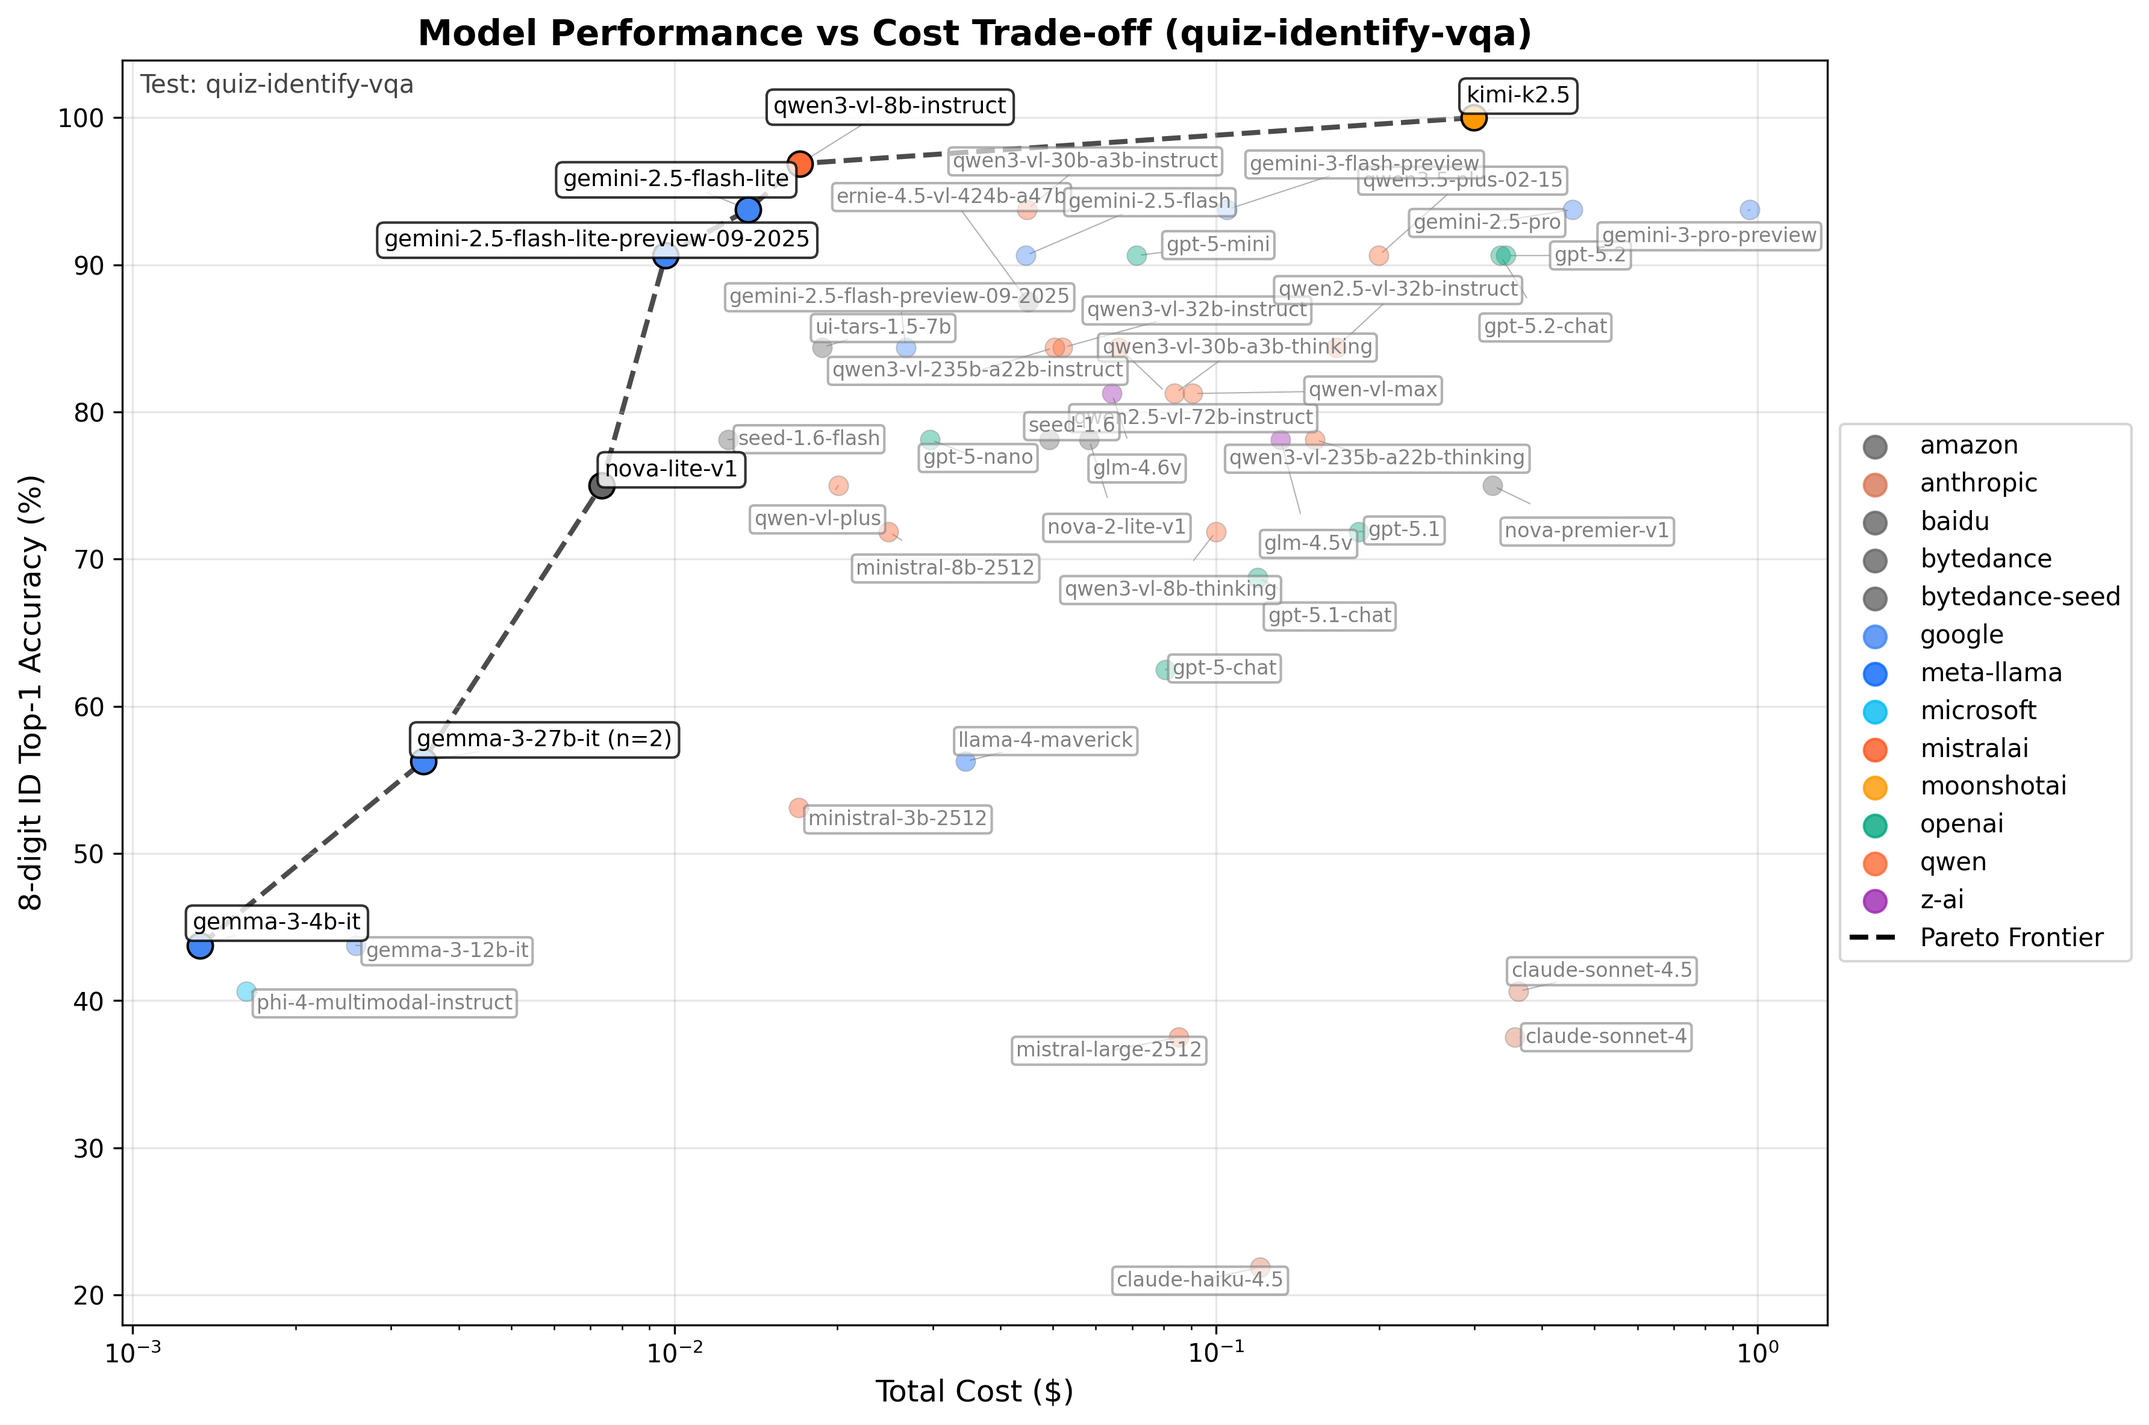
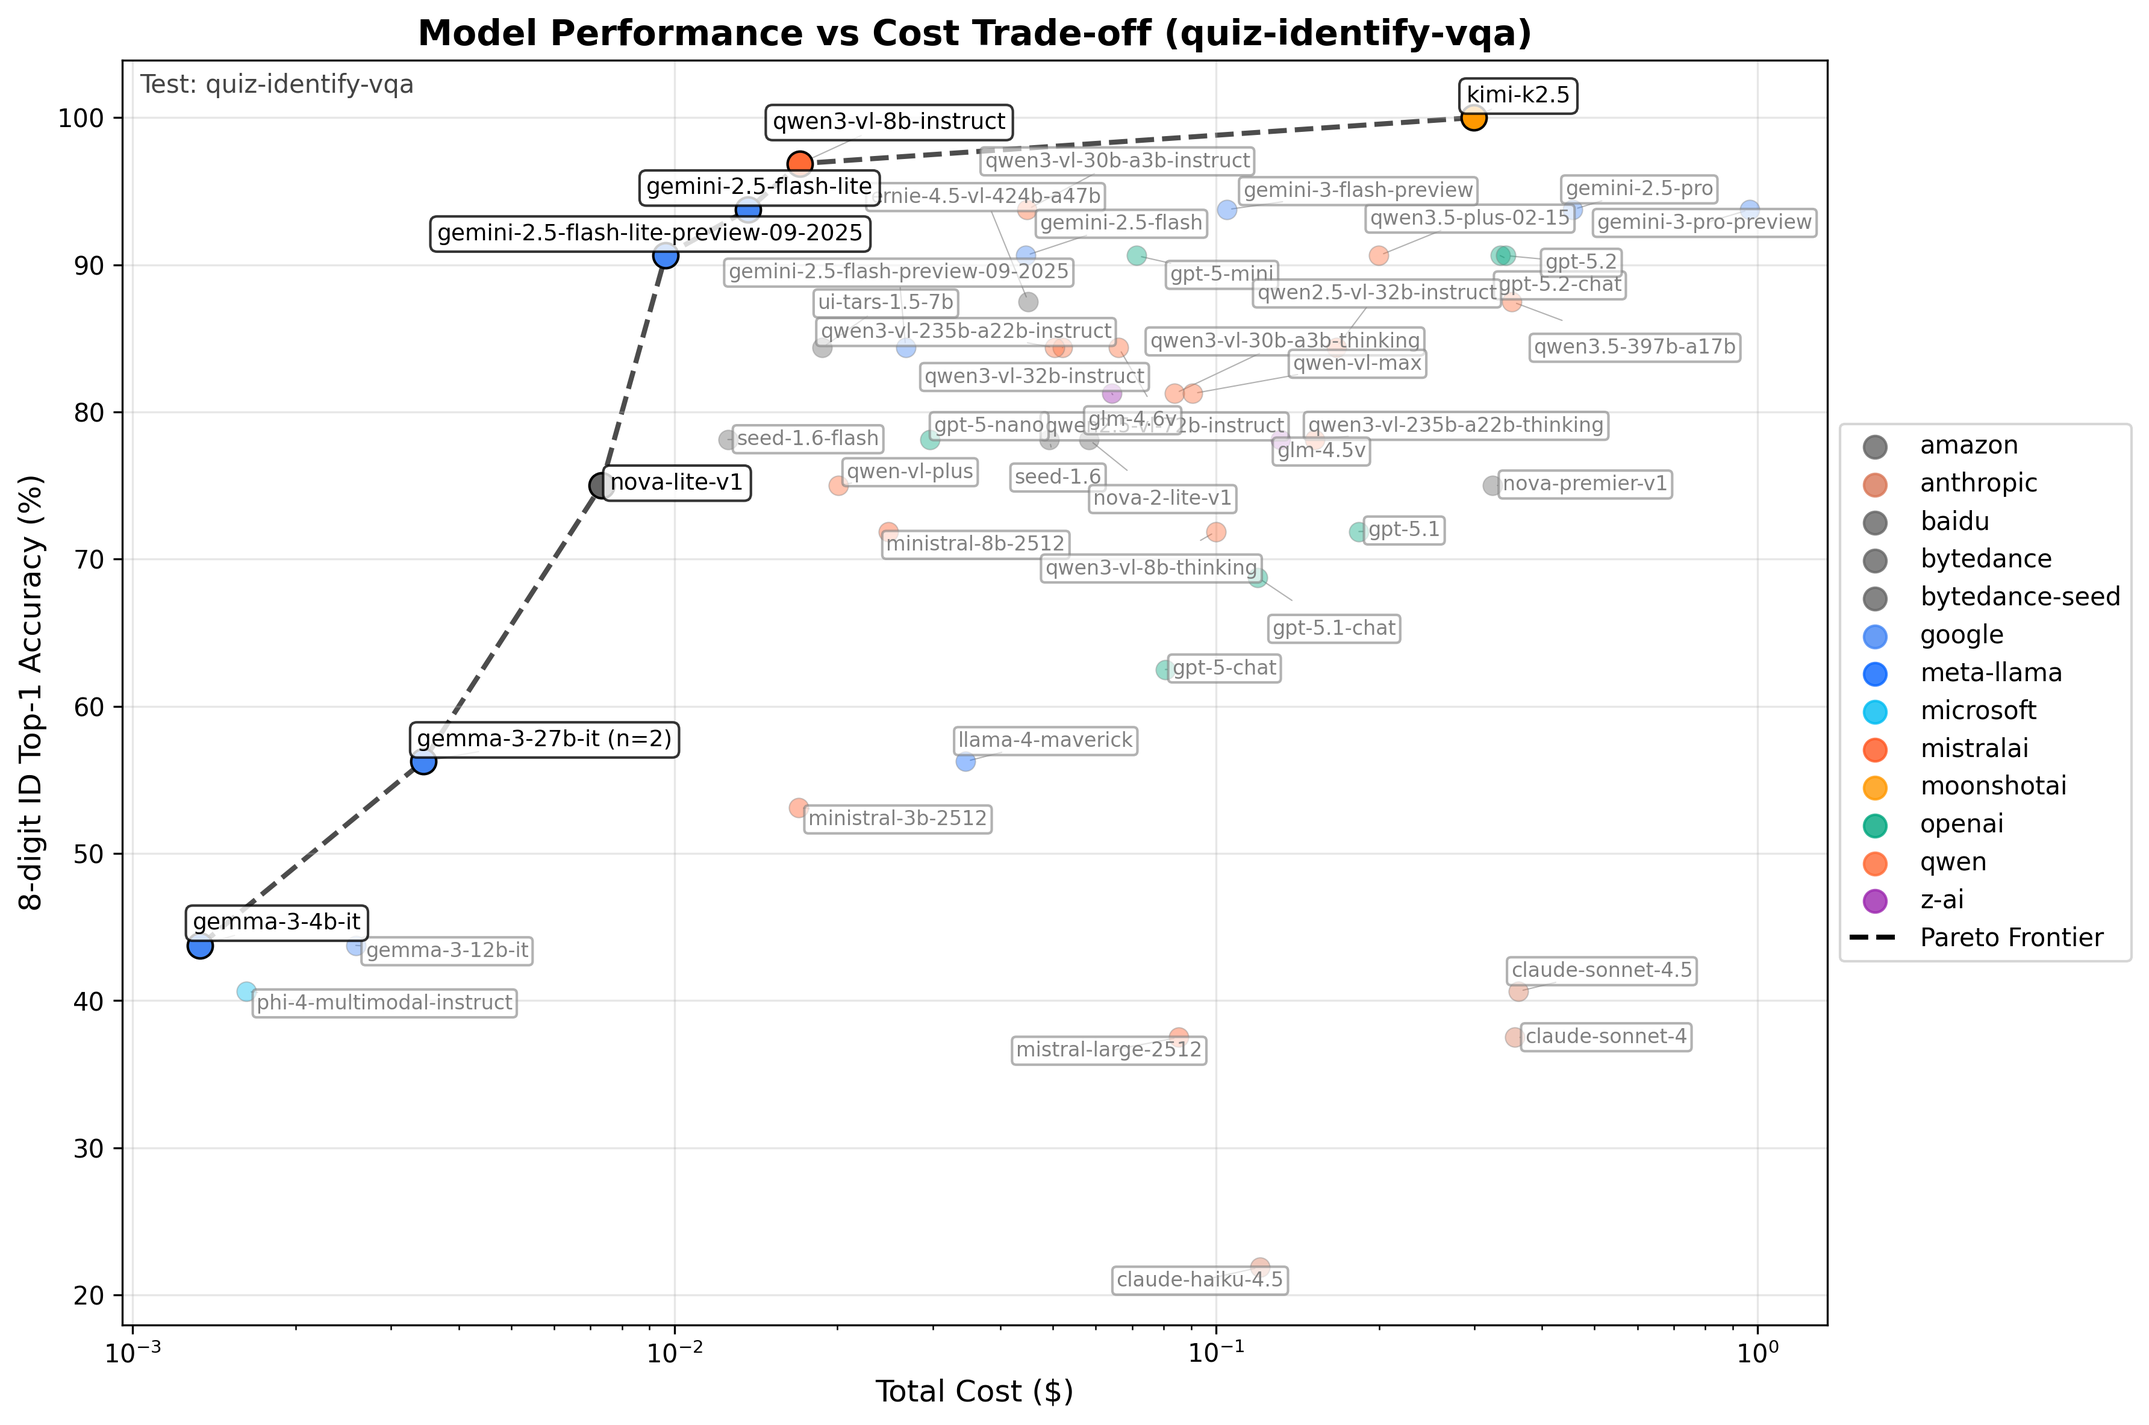
Update benchmarks with qwen3.5-397b-a17b run

Changed region(s): [[0.1555, 0.0617, 0.84, 0.4628]]

diff --git a/BENCHMARKS.md b/BENCHMARKS.md
@@ -39,16 +39,16 @@ All VLM runs use the following consistent configuration:
 
 ## Complete Results
 
-| **Metric** | **OpenCV+CNN** | **qwen**<br>qwen3.5-plus-02-15 | **qwen**<br>qwen2.5-vl-72b-instruct | **qwen**<br>qwen-vl-plus | **qwen**<br>qwen3-vl-8b-instruct | **qwen**<br>qwen3-vl-32b-instruct | **qwen**<br>qwen3-vl-8b-thinking | **qwen**<br>qwen3-vl-30b-a3b-instruct | **qwen**<br>qwen3-vl-30b-a3b-thinking | **qwen**<br>qwen-vl-max | **qwen**<br>qwen3-vl-235b-a22b-thinking | **qwen**<br>qwen3-vl-235b-a22b-instruct | **qwen**<br>qwen2.5-vl-32b-instruct | **baidu**<br>ernie-4.5-vl-424b-a47b | **google**<br>gemma-3-4b-it | **google**<br>gemini-2.5-flash-lite-preview-09-2025 | **google**<br>gemini-2.5-flash-lite | **google**<br>gemma-3-27b-it | **google**<br>gemma-3-12b-it | **google**<br>gemini-3-flash-preview | **google**<br>gemini-3-pro-preview | **google**<br>gemini-2.5-flash-preview-09-2025 | **google**<br>gemini-2.5-pro | **google**<br>gemini-2.5-flash | **amazon**<br>nova-lite-v1 | **amazon**<br>nova-2-lite-v1 | **amazon**<br>nova-premier-v1 | **moonshotai**<br>kimi-k2.5 | **moonshotai**<br>kimi-vl-a3b-thinking:free | **bytedance-seed**<br>seed-1.6 | **bytedance-seed**<br>seed-1.6-flash | **mistralai**<br>ministral-8b-2512 | **mistralai**<br>ministral-3b-2512 | **mistralai**<br>mistral-large-2512 | **openai**<br>gpt-5.2-chat | **openai**<br>gpt-5.2 | **openai**<br>gpt-5.1-chat | **openai**<br>gpt-5.1 | **openai**<br>gpt-5-chat | **openai**<br>gpt-5-mini | **openai**<br>gpt-5-nano | **z-ai**<br>glm-4.6v | **z-ai**<br>glm-4.5v | **anthropic**<br>claude-haiku-4.5 | **anthropic**<br>claude-sonnet-4.5 | **anthropic**<br>claude-sonnet-4 | **microsoft**<br>phi-4-multimodal-instruct | **bytedance**<br>ui-tars-1.5-7b | **meta-llama**<br>llama-4-maverick |
-|:---|:---|:---|:---|:---|:---|:---|:---|:---|:---|:---|:---|:---|:---|:---|:---|:---|:---|:---|:---|:---|:---|:---|:---|:---|:---|:---|:---|:---|:---|:---|:---|:---|:---|:---|:---|:---|:---|:---|:---|:---|:---|:---|:---|:---|:---|:---|:---|:---|:---|
-| LLM model size | N/A | ?? | 72B | ?? | 8B | 32B | 8B | 30A3 | 30A3 | ?? | 235A22 | 235A22 | 32B | 424A47 | 4B | ?? | ?? | 27B | 12B | ?? | ?? | ?? | ?? | ?? | ?? | ?? | ?? | 1000A32 | 16A3 | ?? | ?? | 8B | 3B | 675A41 | ?? | ?? | ?? | ?? | ?? | ?? | ?? | 106B | 106A12 | ?? | ?? | ?? | 5.6B | 7B | 400A17 |
-| Open-weights | N/A | No | Yes | No | Yes | Yes | Yes | Yes | Yes | No | Yes | Yes | Yes | Yes | Yes | No | No | Yes | Yes | No | No | No | No | No | No | No | No | Yes | Yes | No | No | Yes | Yes | Yes | No | No | No | No | No | No | No | Yes | Yes | No | No | No | Yes | Yes | Yes |
-| digit_top1 | 85.16% | 98.83% | 96.48% | 96.88% | 99.61% | 97.27% | 92.19% | 99.22% | 97.27% | 97.27% | 94.53% | 97.66% | 96.09% | 98.05% | 72.27% | 98.05% | 99.22% | 84.18% (n=2) | 75.39% | 99.22% | 99.22% | 98.05% | 99.22% | 98.83% | 93.36% | 97.27% | 94.53% | **100.00%** | 85.94% | 96.48% | 95.70% | 89.84% | 83.59% | 78.12% | 98.44% | 98.44% | 91.80% | 92.58% | 89.84% | 98.83% | 96.48% | 94.92% | 93.36% | 74.22% | 82.81% | 84.77% | 71.48% | 96.48% | 89.84% |
-| 8-digit id_top1 | ?? | 90.62% | 84.38% | 75.00% | 96.88% | 84.38% | 71.88% | 93.75% | 81.25% | 81.25% | 78.12% | 84.38% | 84.38% | 87.50% | 43.75% | 90.62% | 93.75% | 56.25% (n=2) | 43.75% | 93.75% | 93.75% | 84.38% | 93.75% | 90.62% | 75.00% | 78.12% | 75.00% | **100.00%** | 50.00% | 78.12% | 78.12% | 71.88% | 53.12% | 37.50% | 90.62% | 90.62% | 68.75% | 71.88% | 62.50% | 90.62% | 78.12% | 81.25% | 78.12% | 21.88% | 40.62% | 37.50% | 40.62% | 84.38% | 56.25% |
-| lastname_top1 | N/A | 96.88% | **100.00%** | **100.00%** | **100.00%** | 96.88% | 90.62% | 93.75% | 96.88% | 96.88% | **100.00%** | 96.88% | **100.00%** | 93.75% | 93.75% | **100.00%** | 96.88% | **100.00% (n=2)** | **100.00%** | **100.00%** | **100.00%** | **100.00%** | **100.00%** | **100.00%** | 87.50% | **100.00%** | **100.00%** | **100.00%** | 96.88% | 93.75% | 96.88% | 93.75% | 90.62% | 87.50% | 96.88% | 96.88% | **100.00%** | **100.00%** | **100.00%** | **100.00%** | 93.75% | **100.00%** | **100.00%** | 93.75% | 96.88% | **100.00%** | **100.00%** | 96.88% | 96.88% |
-| ID Avg d_Lev | N/A | 0.0938 | 0.1562 | 0.2500 | 0.0312 | 0.2188 | 0.5000 | 0.0625 | 0.2188 | 0.2188 | 0.4688 | 0.1875 | 0.1562 | 0.1562 | 1.1875 | 0.0938 | 0.0625 | 0.9375 (n=2) | 0.9688 | 0.0625 | 0.0625 | 0.1562 | 0.0625 | 0.0938 | 0.3125 | 0.2188 | 0.2500 | **0.0000** | 0.9062 | 0.2812 | 0.2812 | 0.4062 | 0.5312 | 1.2188 | 0.1250 | 0.1250 | 0.4375 | 0.5938 | 0.5312 | 0.0938 | 0.2188 | 0.1875 | 0.2188 | 1.4062 | 1.0000 | 1.0938 | 1.2188 | 0.1562 | 0.5312 |
-| Lastname Avg d_Lev | N/A | 0.0312 | **0.0000** | **0.0000** | **0.0000** | 0.0312 | 0.2812 | 0.1875 | 0.0312 | 0.0312 | **0.0000** | 0.0312 | **0.0000** | 0.0938 | 0.0938 | **0.0000** | 0.0312 | **0.0000 (n=2)** | **0.0000** | **0.0000** | **0.0000** | **0.0000** | **0.0000** | **0.0000** | 0.2500 | **0.0000** | **0.0000** | **0.0000** | 0.0312 | 0.1875 | 0.0312 | 0.0938 | 0.2188 | 0.3750 | 0.0625 | 0.1562 | **0.0000** | **0.0000** | **0.0000** | **0.0000** | 0.0625 | **0.0000** | **0.0000** | 0.2188 | 0.0625 | **0.0000** | **0.0000** | 0.0312 | 0.0312 |
-| Docs detected | 90.62% (29/32) | **100.00% (32/32)** | **100.00% (32/32)** | **100.00% (32/32)** | **100.00% (32/32)** | **100.00% (32/32)** | **100.00% (32/32)** | **100.00% (32/32)** | **100.00% (32/32)** | **100.00% (32/32)** | **100.00% (32/32)** | **100.00% (32/32)** | **100.00% (32/32)** | **100.00% (32/32)** | **100.00% (32/32)** | **100.00% (32/32)** | **100.00% (32/32)** | **100.00% (32/32) (n=2)** | **100.00% (32/32)** | **100.00% (32/32)** | **100.00% (32/32)** | **100.00% (32/32)** | **100.00% (32/32)** | **100.00% (32/32)** | **100.00% (32/32)** | **100.00% (32/32)** | **100.00% (32/32)** | **100.00% (32/32)** | **100.00% (32/32)** | **100.00% (32/32)** | **100.00% (32/32)** | **100.00% (32/32)** | **100.00% (32/32)** | **100.00% (32/32)** | **100.00% (32/32)** | **100.00% (32/32)** | **100.00% (32/32)** | **100.00% (32/32)** | **100.00% (32/32)** | **100.00% (32/32)** | **100.00% (32/32)** | **100.00% (32/32)** | **100.00% (32/32)** | **100.00% (32/32)** | **100.00% (32/32)** | **100.00% (32/32)** | **100.00% (32/32)** | **100.00% (32/32)** | **100.00% (32/32)** |
-| Runtime | **~1 second** | 4.0 minutes | 19 seconds | 10 seconds | 12 seconds | 2.6 minutes | 14.4 minutes | 2.3 minutes | 6.3 minutes | 4.5 minutes | 13.9 minutes | 4.5 minutes | 2.3 minutes | 51 seconds | 14 seconds | 11 seconds | 11 seconds | 17 seconds (n=2) | 10 seconds | 8 seconds | 26.4 minutes | 4.4 minutes | 8.0 minutes | 2.7 minutes | 14 seconds | 3.5 minutes | 6.4 minutes | 1.6 minutes | 9.5 minutes | 57 seconds | 44 seconds | 14 seconds | 18 seconds | 23 seconds | 53 seconds | 57 seconds | 5.2 minutes | 8.9 minutes | 2.8 minutes | 8.3 minutes | 10.5 minutes | 6.6 minutes | 6.2 minutes | 5.0 minutes | 5.4 minutes | 3.5 minutes | 2.1 minutes | 1.8 minutes | 2.0 minutes |
-| Cost per image | **$0.00** | $0.003124 | $0.001033 | $0.000314 | $0.000266 | $0.000814 | $0.001563 | $0.000700 | $0.001311 | $0.001415 | $0.002376 | $0.000786 | $0.002605 | $0.000703 | $0.000021 | $0.000151 | $0.000214 | $0.000054 (n=2) | $0.000040 | $0.001636 | $0.015111 | $0.000418 | $0.007125 | $0.000695 | $0.000115 | $0.000911 | $0.005061 | $0.004679 | **$0.000000** | $0.000770 | $0.000196 | $0.000388 | $0.000265 | $0.001335 | $0.005232 | $0.005352 | $0.001866 | $0.002870 | $0.001260 | $0.001115 | $0.000463 | $0.001004 | $0.002057 | $0.001882 | $0.005646 | $0.005567 | $0.000025 | $0.000293 | $0.000539 |
-| Total cost | **$0.00** | $0.1999 | $0.0661 | $0.0201 | $0.0171 | $0.0521 | $0.1000 | $0.0448 | $0.0839 | $0.0906 | $0.1521 | $0.0503 | $0.1667 | $0.0450 | $0.0013 | $0.0096 | $0.0137 | $0.0034 (n=2) | $0.0026 | $0.1047 | $0.9671 | $0.0267 | $0.4560 | $0.0445 | $0.0073 | $0.0583 | $0.3239 | $0.2995 | **$0.0000** | $0.0492 | $0.0126 | $0.0248 | $0.0170 | $0.0854 | $0.3348 | $0.3426 | $0.1195 | $0.1837 | $0.0807 | $0.0714 | $0.0297 | $0.0642 | $0.1316 | $0.1205 | $0.3614 | $0.3563 | $0.0016 | $0.0187 | $0.0345 |
+| **Metric** | **OpenCV+CNN** | **qwen**<br>qwen3.5-397b-a17b | **qwen**<br>qwen3.5-plus-02-15 | **qwen**<br>qwen2.5-vl-72b-instruct | **qwen**<br>qwen-vl-plus | **qwen**<br>qwen3-vl-8b-instruct | **qwen**<br>qwen3-vl-32b-instruct | **qwen**<br>qwen3-vl-8b-thinking | **qwen**<br>qwen3-vl-30b-a3b-instruct | **qwen**<br>qwen3-vl-30b-a3b-thinking | **qwen**<br>qwen-vl-max | **qwen**<br>qwen3-vl-235b-a22b-thinking | **qwen**<br>qwen3-vl-235b-a22b-instruct | **qwen**<br>qwen2.5-vl-32b-instruct | **baidu**<br>ernie-4.5-vl-424b-a47b | **google**<br>gemma-3-4b-it | **google**<br>gemini-2.5-flash-lite-preview-09-2025 | **google**<br>gemini-2.5-flash-lite | **google**<br>gemma-3-27b-it | **google**<br>gemma-3-12b-it | **google**<br>gemini-3-flash-preview | **google**<br>gemini-3-pro-preview | **google**<br>gemini-2.5-flash-preview-09-2025 | **google**<br>gemini-2.5-pro | **google**<br>gemini-2.5-flash | **amazon**<br>nova-lite-v1 | **amazon**<br>nova-2-lite-v1 | **amazon**<br>nova-premier-v1 | **moonshotai**<br>kimi-k2.5 | **moonshotai**<br>kimi-vl-a3b-thinking:free | **bytedance-seed**<br>seed-1.6 | **bytedance-seed**<br>seed-1.6-flash | **mistralai**<br>ministral-8b-2512 | **mistralai**<br>ministral-3b-2512 | **mistralai**<br>mistral-large-2512 | **openai**<br>gpt-5.2-chat | **openai**<br>gpt-5.2 | **openai**<br>gpt-5.1-chat | **openai**<br>gpt-5.1 | **openai**<br>gpt-5-chat | **openai**<br>gpt-5-mini | **openai**<br>gpt-5-nano | **z-ai**<br>glm-4.6v | **z-ai**<br>glm-4.5v | **anthropic**<br>claude-haiku-4.5 | **anthropic**<br>claude-sonnet-4.5 | **anthropic**<br>claude-sonnet-4 | **microsoft**<br>phi-4-multimodal-instruct | **bytedance**<br>ui-tars-1.5-7b | **meta-llama**<br>llama-4-maverick |
+|:---|:---|:---|:---|:---|:---|:---|:---|:---|:---|:---|:---|:---|:---|:---|:---|:---|:---|:---|:---|:---|:---|:---|:---|:---|:---|:---|:---|:---|:---|:---|:---|:---|:---|:---|:---|:---|:---|:---|:---|:---|:---|:---|:---|:---|:---|:---|:---|:---|:---|:---|
+| LLM model size | N/A | 397A17 | ?? | 72B | ?? | 8B | 32B | 8B | 30A3 | 30A3 | ?? | 235A22 | 235A22 | 32B | 424A47 | 4B | ?? | ?? | 27B | 12B | ?? | ?? | ?? | ?? | ?? | ?? | ?? | ?? | 1000A32 | 16A3 | ?? | ?? | 8B | 3B | 675A41 | ?? | ?? | ?? | ?? | ?? | ?? | ?? | 106B | 106A12 | ?? | ?? | ?? | 5.6B | 7B | 400A17 |
+| Open-weights | N/A | Yes | No | Yes | No | Yes | Yes | Yes | Yes | Yes | No | Yes | Yes | Yes | Yes | Yes | No | No | Yes | Yes | No | No | No | No | No | No | No | No | Yes | Yes | No | No | Yes | Yes | Yes | No | No | No | No | No | No | No | Yes | Yes | No | No | No | Yes | Yes | Yes |
+| digit_top1 | 85.16% | 98.05% | 98.83% | 96.48% | 96.88% | 99.61% | 97.27% | 92.19% | 99.22% | 97.27% | 97.27% | 94.53% | 97.66% | 96.09% | 98.05% | 72.27% | 98.05% | 99.22% | 84.18% (n=2) | 75.39% | 99.22% | 99.22% | 98.05% | 99.22% | 98.83% | 93.36% | 97.27% | 94.53% | **100.00%** | 85.94% | 96.48% | 95.70% | 89.84% | 83.59% | 78.12% | 98.44% | 98.44% | 91.80% | 92.58% | 89.84% | 98.83% | 96.48% | 94.92% | 93.36% | 74.22% | 82.81% | 84.77% | 71.48% | 96.48% | 89.84% |
+| 8-digit id_top1 | ?? | 87.50% | 90.62% | 84.38% | 75.00% | 96.88% | 84.38% | 71.88% | 93.75% | 81.25% | 81.25% | 78.12% | 84.38% | 84.38% | 87.50% | 43.75% | 90.62% | 93.75% | 56.25% (n=2) | 43.75% | 93.75% | 93.75% | 84.38% | 93.75% | 90.62% | 75.00% | 78.12% | 75.00% | **100.00%** | 50.00% | 78.12% | 78.12% | 71.88% | 53.12% | 37.50% | 90.62% | 90.62% | 68.75% | 71.88% | 62.50% | 90.62% | 78.12% | 81.25% | 78.12% | 21.88% | 40.62% | 37.50% | 40.62% | 84.38% | 56.25% |
+| lastname_top1 | N/A | **100.00%** | 96.88% | **100.00%** | **100.00%** | **100.00%** | 96.88% | 90.62% | 93.75% | 96.88% | 96.88% | **100.00%** | 96.88% | **100.00%** | 93.75% | 93.75% | **100.00%** | 96.88% | **100.00% (n=2)** | **100.00%** | **100.00%** | **100.00%** | **100.00%** | **100.00%** | **100.00%** | 87.50% | **100.00%** | **100.00%** | **100.00%** | 96.88% | 93.75% | 96.88% | 93.75% | 90.62% | 87.50% | 96.88% | 96.88% | **100.00%** | **100.00%** | **100.00%** | **100.00%** | 93.75% | **100.00%** | **100.00%** | 93.75% | 96.88% | **100.00%** | **100.00%** | 96.88% | 96.88% |
+| ID Avg d_Lev | N/A | 0.1562 | 0.0938 | 0.1562 | 0.2500 | 0.0312 | 0.2188 | 0.5000 | 0.0625 | 0.2188 | 0.2188 | 0.4688 | 0.1875 | 0.1562 | 0.1562 | 1.1875 | 0.0938 | 0.0625 | 0.9375 (n=2) | 0.9688 | 0.0625 | 0.0625 | 0.1562 | 0.0625 | 0.0938 | 0.3125 | 0.2188 | 0.2500 | **0.0000** | 0.9062 | 0.2812 | 0.2812 | 0.4062 | 0.5312 | 1.2188 | 0.1250 | 0.1250 | 0.4375 | 0.5938 | 0.5312 | 0.0938 | 0.2188 | 0.1875 | 0.2188 | 1.4062 | 1.0000 | 1.0938 | 1.2188 | 0.1562 | 0.5312 |
+| Lastname Avg d_Lev | N/A | **0.0000** | 0.0312 | **0.0000** | **0.0000** | **0.0000** | 0.0312 | 0.2812 | 0.1875 | 0.0312 | 0.0312 | **0.0000** | 0.0312 | **0.0000** | 0.0938 | 0.0938 | **0.0000** | 0.0312 | **0.0000 (n=2)** | **0.0000** | **0.0000** | **0.0000** | **0.0000** | **0.0000** | **0.0000** | 0.2500 | **0.0000** | **0.0000** | **0.0000** | 0.0312 | 0.1875 | 0.0312 | 0.0938 | 0.2188 | 0.3750 | 0.0625 | 0.1562 | **0.0000** | **0.0000** | **0.0000** | **0.0000** | 0.0625 | **0.0000** | **0.0000** | 0.2188 | 0.0625 | **0.0000** | **0.0000** | 0.0312 | 0.0312 |
+| Docs detected | 90.62% (29/32) | **100.00% (32/32)** | **100.00% (32/32)** | **100.00% (32/32)** | **100.00% (32/32)** | **100.00% (32/32)** | **100.00% (32/32)** | **100.00% (32/32)** | **100.00% (32/32)** | **100.00% (32/32)** | **100.00% (32/32)** | **100.00% (32/32)** | **100.00% (32/32)** | **100.00% (32/32)** | **100.00% (32/32)** | **100.00% (32/32)** | **100.00% (32/32)** | **100.00% (32/32)** | **100.00% (32/32) (n=2)** | **100.00% (32/32)** | **100.00% (32/32)** | **100.00% (32/32)** | **100.00% (32/32)** | **100.00% (32/32)** | **100.00% (32/32)** | **100.00% (32/32)** | **100.00% (32/32)** | **100.00% (32/32)** | **100.00% (32/32)** | **100.00% (32/32)** | **100.00% (32/32)** | **100.00% (32/32)** | **100.00% (32/32)** | **100.00% (32/32)** | **100.00% (32/32)** | **100.00% (32/32)** | **100.00% (32/32)** | **100.00% (32/32)** | **100.00% (32/32)** | **100.00% (32/32)** | **100.00% (32/32)** | **100.00% (32/32)** | **100.00% (32/32)** | **100.00% (32/32)** | **100.00% (32/32)** | **100.00% (32/32)** | **100.00% (32/32)** | **100.00% (32/32)** | **100.00% (32/32)** | **100.00% (32/32)** |
+| Runtime | **~1 second** | 9.6 minutes | 4.0 minutes | 19 seconds | 10 seconds | 12 seconds | 2.6 minutes | 14.4 minutes | 2.3 minutes | 6.3 minutes | 4.5 minutes | 13.9 minutes | 4.5 minutes | 2.3 minutes | 51 seconds | 14 seconds | 11 seconds | 11 seconds | 17 seconds (n=2) | 10 seconds | 8 seconds | 26.4 minutes | 4.4 minutes | 8.0 minutes | 2.7 minutes | 14 seconds | 3.5 minutes | 6.4 minutes | 1.6 minutes | 9.5 minutes | 57 seconds | 44 seconds | 14 seconds | 18 seconds | 23 seconds | 53 seconds | 57 seconds | 5.2 minutes | 8.9 minutes | 2.8 minutes | 8.3 minutes | 10.5 minutes | 6.6 minutes | 6.2 minutes | 5.0 minutes | 5.4 minutes | 3.5 minutes | 2.1 minutes | 1.8 minutes | 2.0 minutes |
+| Cost per image | **$0.00** | $0.005496 | $0.003124 | $0.001033 | $0.000314 | $0.000266 | $0.000814 | $0.001563 | $0.000700 | $0.001311 | $0.001415 | $0.002376 | $0.000786 | $0.002605 | $0.000703 | $0.000021 | $0.000151 | $0.000214 | $0.000054 (n=2) | $0.000040 | $0.001636 | $0.015111 | $0.000418 | $0.007125 | $0.000695 | $0.000115 | $0.000911 | $0.005061 | $0.004679 | **$0.000000** | $0.000770 | $0.000196 | $0.000388 | $0.000265 | $0.001335 | $0.005232 | $0.005352 | $0.001866 | $0.002870 | $0.001260 | $0.001115 | $0.000463 | $0.001004 | $0.002057 | $0.001882 | $0.005646 | $0.005567 | $0.000025 | $0.000293 | $0.000539 |
+| Total cost | **$0.00** | $0.3518 | $0.1999 | $0.0661 | $0.0201 | $0.0171 | $0.0521 | $0.1000 | $0.0448 | $0.0839 | $0.0906 | $0.1521 | $0.0503 | $0.1667 | $0.0450 | $0.0013 | $0.0096 | $0.0137 | $0.0034 (n=2) | $0.0026 | $0.1047 | $0.9671 | $0.0267 | $0.4560 | $0.0445 | $0.0073 | $0.0583 | $0.3239 | $0.2995 | **$0.0000** | $0.0492 | $0.0126 | $0.0248 | $0.0170 | $0.0854 | $0.3348 | $0.3426 | $0.1195 | $0.1837 | $0.0807 | $0.0714 | $0.0297 | $0.0642 | $0.1316 | $0.1205 | $0.3614 | $0.3563 | $0.0016 | $0.0187 | $0.0345 |
